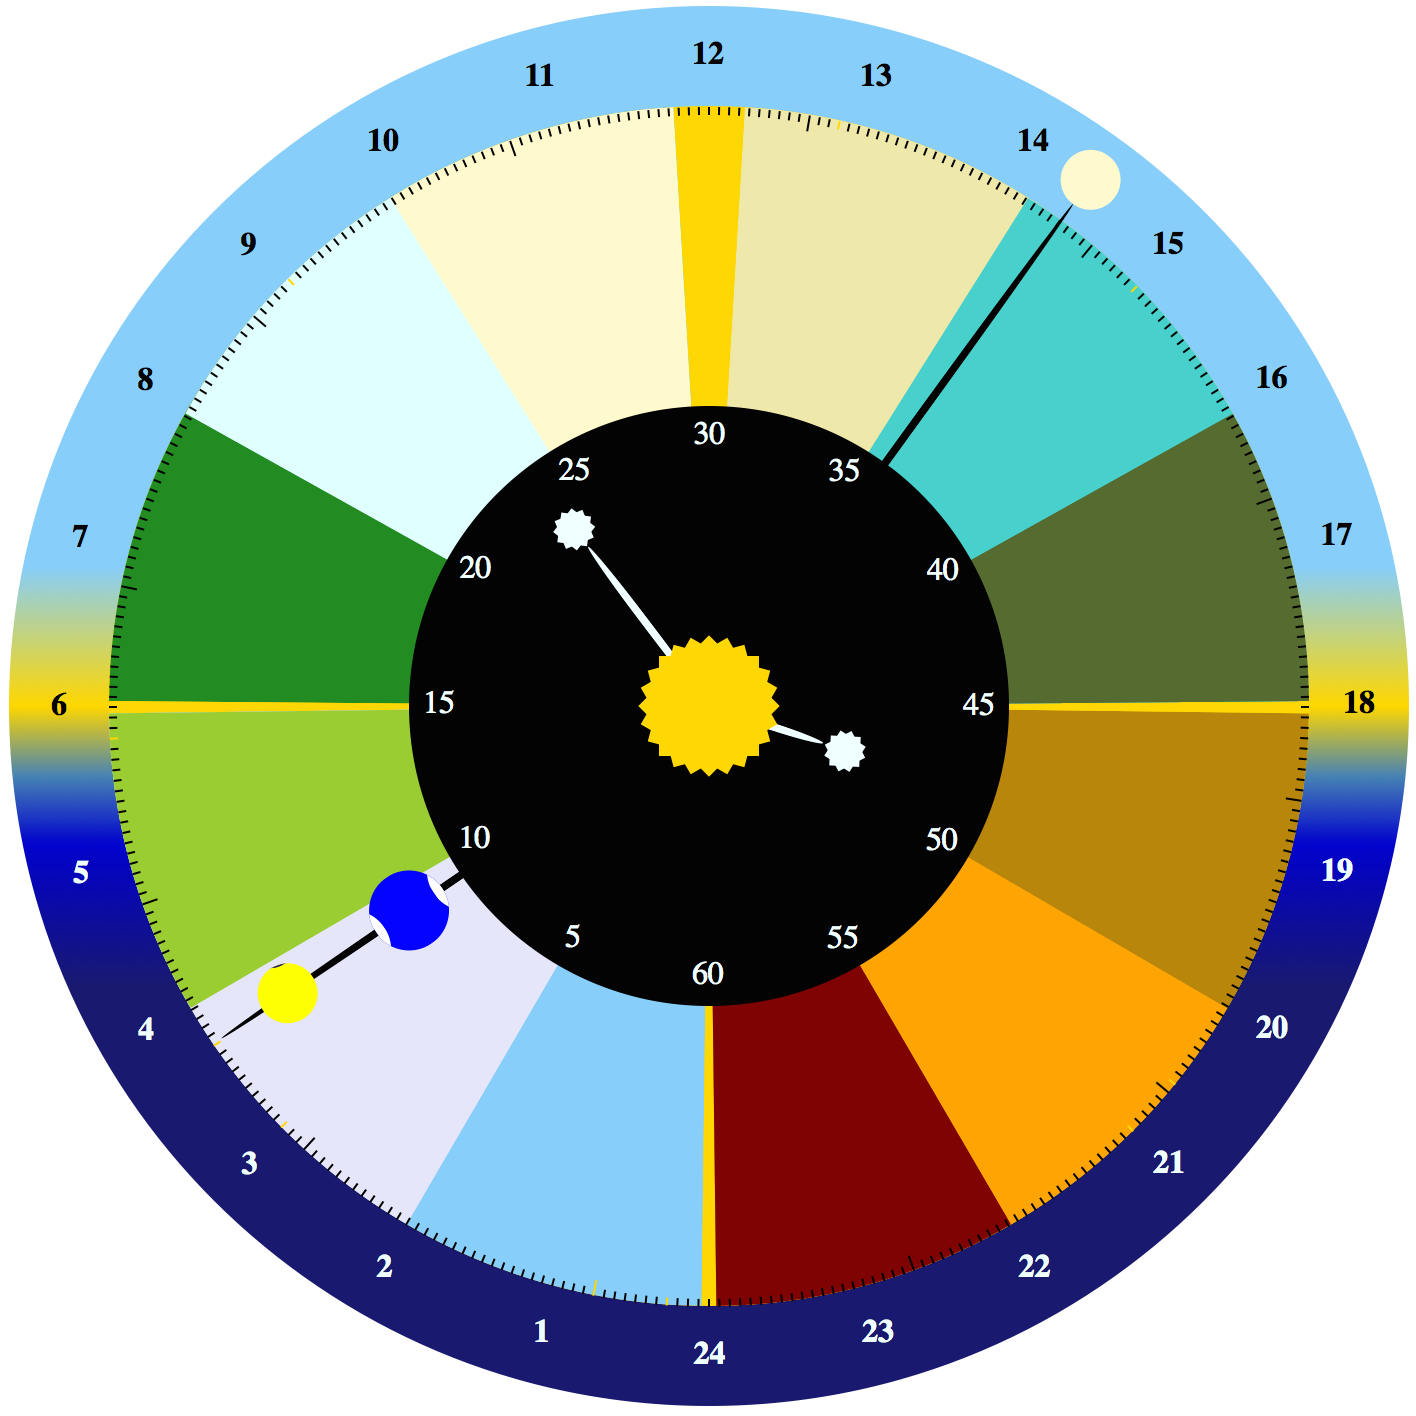
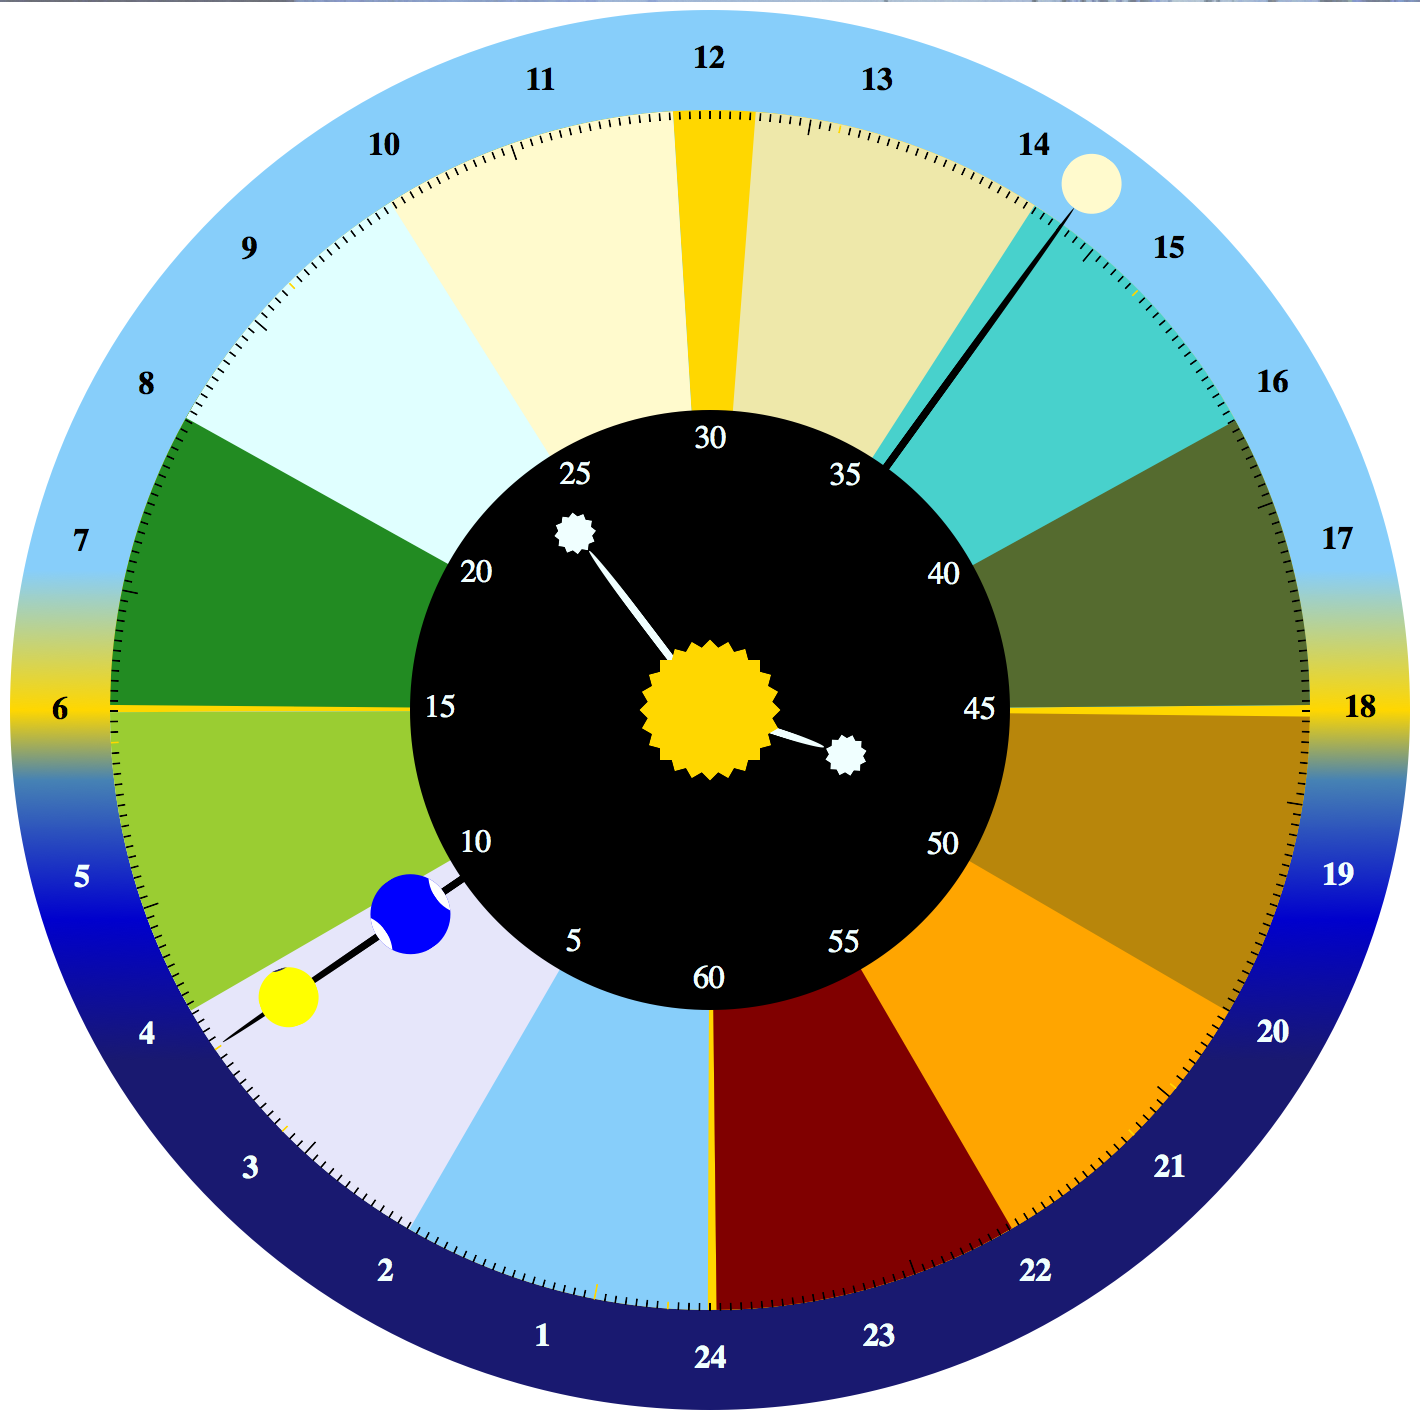
Refined clock's month colors.
Refined days-per-year and days-per-moonth with facts and figures from http://www.sym454.org/seasons/.

diff --git a/season-clock.css b/season-clock.css
@@ -1,8 +1,11 @@
 /**
- * days-per-year = 365.242190402
- * days-per-moonth = 29.530588853
- * deg-per-day-summer = 180 / (days-per-year - 180) = 0.971700883095
- * deg-per-moonth-summer = 28.694899267
+ * days-per-year = 365+31/128 = 365.2421875
+ * days-per-moonth = 29+82517/155520 = 29.53058770576
+ * days-per-spring = 92.75
+ * days-per-summer = 93.6421875
+ * days-per-autumn = 89.85
+ * days-per-winter = 89.00
+ * See http://www.sym454.org/seasons/
  */
 
 * {
@@ -10,12 +13,6 @@
 }
 
 body {
-/*  background: linear-gradient(to bottom,
-                              lightskyblue 280px,
-                              gold 350px,
-                              steelblue 385px,
-                              mediumblue 420px,
-                              midnightblue 490px);*/
   margin: 4px;
 }
 
@@ -27,8 +24,8 @@ body {
                               lightskyblue 40%,
                               gold 50%,
                               steelblue 55%,
-                              mediumblue 60%,
-                              midnightblue 70%);
+                              mediumblue 65%,
+                              midnightblue 75%);
   border-radius:50%;
 }
 
@@ -51,25 +48,25 @@ body {
   clip: rect(0px, 600px, 600px, 300px);
 }
 
-.winter-season    { transform: rotate(-90.704116721deg); -webkit-transform: rotate(-90.704116721deg); }
-.spring-season    { transform: rotate( -3.4294517575deg); -webkit-transform: rotate( -3.4294517575deg); }
-.ocean-season     { transform: rotate( 89.5141495585deg); -webkit-transform: rotate( 89.5141495585deg); }
-.harvest-season   { transform: rotate(179.29588328deg); -webkit-transform: rotate(179.29588328deg); }
+.winter-season    { transform: rotate(-90.206411907deg);  -webkit-transform: rotate(-90.206411907deg); }
+.spring-season    { transform: rotate( -3.549771638204deg); -webkit-transform: rotate( -3.549771638204deg); }
+.ocean-season     { transform: rotate( 89.51944736447deg);  -webkit-transform: rotate( 89.51944736447deg); }
+.harvest-season   { transform: rotate(179.3698312774deg);   -webkit-transform: rotate(179.3698312774deg); }
 
 .moonth { clip: rect(0px, 300px, 600px, 0px); }
 
-.newyear-moonth      { transform:rotate(-88.591766559deg); -webkit-transform:rotate(-88.591766559deg); }
-.valentines-moonth   { transform:rotate(-59.061177706deg); -webkit-transform:rotate(-59.061177706deg); }
-.primavera-moonth    { transform:rotate(-29.530588853deg); -webkit-transform:rotate(-29.530588853deg); }
-.spring-moonth       { transform:rotate(-86.084697801deg); -webkit-transform:rotate(-86.084697801deg); }
-.sky-moonth          { transform:rotate(-57.389798534deg); -webkit-transform:rotate(-57.389798534deg); }
-.sol-moonth          { transform:rotate(-28.694899267deg); -webkit-transform:rotate(-28.694899267deg); }
-.beach-moonth        { transform:rotate(-86.084697801deg); -webkit-transform:rotate(-86.084697801deg); }
-.ocean-moonth        { transform:rotate(-57.389798534deg); -webkit-transform:rotate(-57.389798534deg); }
-.weed-moonth         { transform:rotate(-28.694899267deg); -webkit-transform:rotate(-28.694899267deg); }
-.harvest-moonth      { transform:rotate(-88.591766559deg); -webkit-transform:rotate(-88.591766559deg); }
-.wine-moonth         { transform:rotate(-59.061177706deg); -webkit-transform:rotate(-59.061177706deg); }
-.feast-moonth        { transform:rotate(-29.530588853deg); -webkit-transform:rotate(-29.530588853deg); }
+.newyear-moonth      { transform:rotate(-89.58717618601deg); -webkit-transform:rotate(-89.58717618601deg); }
+.valentines-moonth   { transform:rotate(-59.72478412401deg); -webkit-transform:rotate(-59.72478412401deg); }
+.primavera-moonth    { transform:rotate(-29.86239206200deg); -webkit-transform:rotate(-29.86239206200deg); }
+.spring-moonth       { transform:rotate(-85.96505315963deg); -webkit-transform:rotate(-85.96505315963deg); }
+.sky-moonth          { transform:rotate(-57.31003543975deg); -webkit-transform:rotate(-57.31003543975deg); }
+.sol-moonth          { transform:rotate(-28.65501771988deg); -webkit-transform:rotate(-28.65501771988deg); }
+.beach-moonth        { transform:rotate(-85.14601050467deg); -webkit-transform:rotate(-85.14601050467deg); }
+.ocean-moonth        { transform:rotate(-56.76400700311deg); -webkit-transform:rotate(-56.76400700311deg); }
+.weed-moonth         { transform:rotate(-28.38200350156deg); -webkit-transform:rotate(-28.38200350156deg); }
+.harvest-moonth      { transform:rotate(-88.73966255487deg); -webkit-transform:rotate(-88.73966255487deg); }
+.wine-moonth         { transform:rotate(-59.15977503658deg); -webkit-transform:rotate(-59.15977503658deg); }
+.feast-moonth        { transform:rotate(-29.57988751830deg); -webkit-transform:rotate(-29.57988751830deg); }
 
 .center {
   position: absolute;

diff --git a/season-clock.js b/season-clock.js
@@ -5,7 +5,7 @@
 
 $(document).ready(function() {
     var MILLISEC_PER_DAY = 24*60*60*1000;
-    var DAYS_PER_MOONTH = 29.530588853;
+    var DAYS_PER_MOONTH = 29+82517/155520;
     var NEW_MOON_PHASE_START = new Date(Date.UTC(2013, 0, 11, 19,44));
     var secondsBoost = 0;
     var minutesBoost = 0;

diff --git a/README.md b/README.md
@@ -5,7 +5,7 @@ If the year was divided into a 24-hour clock, centered around the [solstices](ht
 
 To answer this question, I created this 'Season Clock' with just some HTML, CSS, and javascript. Inspired by the way the [Shire Reckoning Calendar](http://psarando.github.io/shire-reckoning) divides the year, this clock starts each year on Dec. 21st, at midnight at the bottom of the clock, and marks June 21st at noon (in non-leap years) at the top of the clock.
 
-The outer edge of the clock shows the hour of the day, and the center of the clock show the current minute and seconds.
+The outer edge of the clock shows the hour of the day, and the center of the clock shows the current minute and seconds.
 
 The middle part of the clock is divided into colored sections, each spanning the average length of a Moon cycle (about 29.5 days); in other words, each colored section is about 1-moonth of the year. The remaining days of the year are centered symmetrically near the dates of the [solstices](http://en.wikipedia.org/wiki/Solstice) and [equinoxes](http://en.wikipedia.org/wiki/Equinox). Notice that there are more days in the half of the year around the June solstice than there are around the December solstice, so the gold-colored, extra-days section is larger around the June solstice.
 
@@ -37,7 +37,7 @@ July 4th, 2014, near Earth's aphelion (furthest from the Sun).
 
 October 31st, 2014, near the Moon's 1st quarter.
 
-![2014-10-31 18:01:13](season-clock-oct-31.png)
+![2014-10-31 18:00:13](season-clock-oct-31.png)
 
 December 21st, the starting point of this clock, each year. Shown here in 2014 near a New Moon.
 
